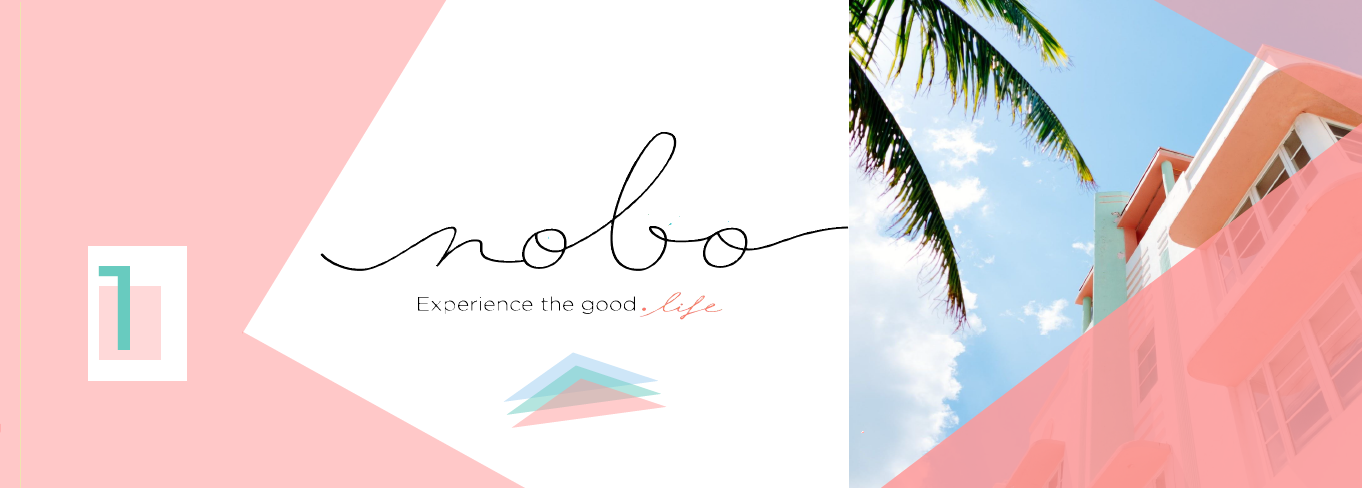
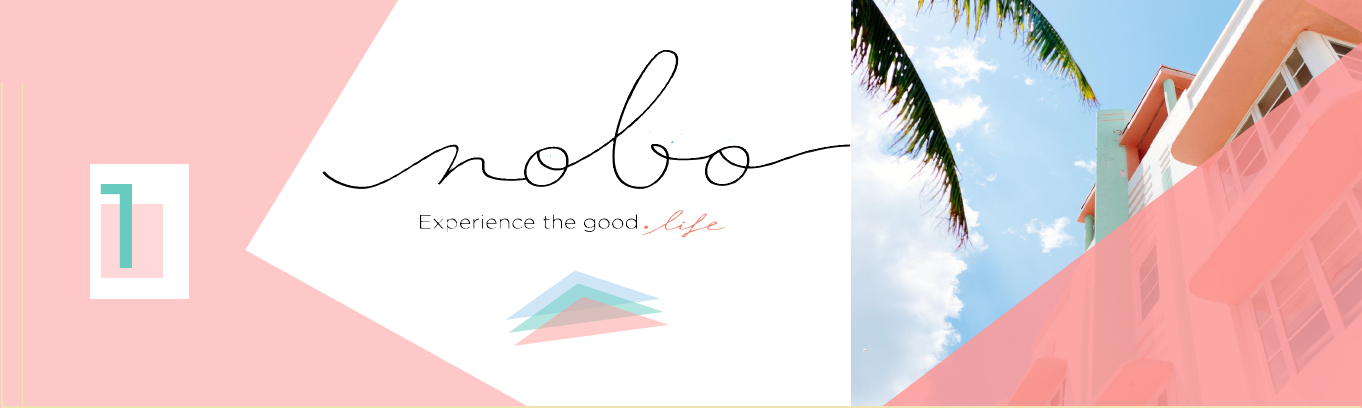
convert html to txt using react-html-parser because the summary in the movies are html

diff --git a/myapp/src/components/details.component.js b/myapp/src/components/details.component.js
@@ -1,107 +1,65 @@
 import React from 'react';
 import { makeStyles } from '@material-ui/core/styles';
 import clsx from 'clsx';
-import Card from '@material-ui/core/Card';
-import CardHeader from '@material-ui/core/CardHeader';
+import { pink } from '@material-ui/core/colors';
+import Container from '@material-ui/core/Container';
 import CardMedia from '@material-ui/core/CardMedia';
-import CardContent from '@material-ui/core/CardContent';
+import Card from '@material-ui/core/Card';
+import CardActionArea from '@material-ui/core/CardActionArea';
 import CardActions from '@material-ui/core/CardActions';
-import Collapse from '@material-ui/core/Collapse';
-import Avatar from '@material-ui/core/Avatar';
-import IconButton from '@material-ui/core/IconButton';
+import CardContent from '@material-ui/core/CardContent';
+import Button from '@material-ui/core/Button';
 import Typography from '@material-ui/core/Typography';
-import { red } from '@material-ui/core/colors';
-import FavoriteIcon from '@material-ui/icons/Favorite';
-import ShareIcon from '@material-ui/icons/Share';
-import ExpandMoreIcon from '@material-ui/icons/ExpandMore';
-import MoreVertIcon from '@material-ui/icons/MoreVert';
-import InfoIcon from '@material-ui/icons/Info';
+import Grid from '@material-ui/core/Grid';
+import Paper from '@material-ui/core/Paper';
+import ReactHtmlParser, { processNodes, convertNodeToElement, htmlparser2 } from 'react-html-parser';
 
 const useStyles = makeStyles(theme => ({
+
+  container:{
+    backgroundColor: pink[100]
+  },
   card: {
-    maxWidth: 345,
+    maxWidth: 600,
   },
   media: {
-    height: 0,
-    paddingTop: '56.25%', // 16:9
+    height: 600,
   },
-  expand: {
-    transform: 'rotate(0deg)',
-    marginLeft: 'auto',
-    transition: theme.transitions.create('transform', {
-      duration: theme.transitions.duration.shortest,
-    }),
-  },
-  expandOpen: {
-    transform: 'rotate(180deg)',
-  },
-  avatar: {
-    backgroundColor: red[500],
+  paper:{
+    padding: theme.spacing(2),
+   textAlign: 'center',
+   color: theme.palette.text.secondary,
   },
 }));
-
 export default function Details(props) {
   const classes = useStyles();
-  const [expanded, setExpanded] = React.useState(false);
-
-  const handleExpandClick = () => {
-    setExpanded(!expanded);
-  };
+  const html = props.summary;
 
   return (
-    <Card className={classes.card}>
-      <CardHeader
-
-        action={
-          <IconButton aria-label="settings">
-            <MoreVertIcon />
-          </IconButton>
-        }
-        title={props.name}
-        subheader={props.type}
-      />
-      <CardMedia
-        className={classes.media}
-        image={props.image}
-        title="Paella dish"
-      />
-      <CardContent>
-        <Typography variant="body2" color="textSecondary" component="p">
-        {props.score}
-        </Typography>
-      </CardContent>
-      <CardActions disableSpacing>
-        <IconButton aria-label="add to favorites">
-          <FavoriteIcon />
-        </IconButton>
-        <IconButton
-        onClick={props.showDetails}
-        aria-label="info">
-
-          <InfoIcon />
-        </IconButton>
-        <IconButton
-          className={clsx(classes.expand, {
-            [classes.expandOpen]: expanded,
-          })}
-          onClick={handleExpandClick}
-          aria-expanded={expanded}
-          aria-label="show more"
-        >
-          <ExpandMoreIcon />
-        </IconButton>
-      </CardActions>
-      <Collapse in={expanded} timeout="auto" unmountOnExit>
-        <CardContent>
-          <Typography paragraph>Summary:</Typography>
-
-          <Typography paragraph>
-          {props.summary}
-          </Typography>
+    <Container fixed className={classes.container}>
+    <Grid container spacing={3}>
+        <Grid item xs={6}>
+        <div className={classes.root}>
+        <Card className={classes.card}>
+              <CardMedia
+                className={classes.media}
+                image={props.image}
+                title="Contemplative Reptile"
+              />
+          </Card>
+        </div>
+        </Grid>
+        <Grid item xs={6}>
+          <Paper className={classes.paper}>{props.name}</Paper>
+          <Paper className={classes.paper}>average rating :{props.rating}</Paper>
+          <Paper className={classes.paper}>oficial site : {props.officialSite}</Paper>
+          <Paper className={classes.paper}>summary :{ ReactHtmlParser(html) }</Paper>
 
 
-        </CardContent>
-      </Collapse>
-    </Card>
+        </Grid>
+      </Grid>
+
+    </Container>
+
   );
 }

diff --git a/myapp/src/components/header.component.js b/myapp/src/components/header.component.js
@@ -7,7 +7,10 @@ import { makeStyles } from '@material-ui/core/styles';
 import MenuIcon from '@material-ui/icons/Menu';
 import SearchIcon from '@material-ui/icons/Search';
 import MoreIcon from '@material-ui/icons/MoreVert';
-import Image from '../nobo.png'
+import Image from '../nobo.png';
+import useScrollTrigger from '@material-ui/core/useScrollTrigger';
+import Slide from '@material-ui/core/Slide';
+import PropTypes from 'prop-types';
 
 const useStyles = makeStyles(theme => ({
   root: {
@@ -18,7 +21,7 @@ const useStyles = makeStyles(theme => ({
     marginRight: theme.spacing(2),
   },
   toolbar: {
-    minHeight: 450,
+    minHeight: 350,
     alignItems: 'flex-start',
     paddingTop: theme.spacing(1),
     paddingBottom: theme.spacing(2),
@@ -32,14 +35,33 @@ const useStyles = makeStyles(theme => ({
     }
 }));
 
-export default function Header() {
+
+
+function HideOnScroll(props) {
+  const { children, window } = props;
+  const trigger = useScrollTrigger({ target: window ? window() : undefined });
+  return (
+    <Slide appear={false} direction="down" in={!trigger}>
+      {children}
+    </Slide>
+  );
+}
+
+HideOnScroll.propTypes = {
+  children: PropTypes.element.isRequired,
+  window: PropTypes.func,
+};
+
+export default function Header(props) {
+
   const classes = useStyles();
 
   return (
+
     <div className={classes.root}>
       <AppBar position="static" className={classes.paperContainer}>
         <Toolbar className={classes.toolbar}>
-        
+
           <Typography className={classes.title} variant="h5" noWrap>
             Nobo Test by KHADIM Safaa
           </Typography>
@@ -52,5 +74,6 @@ export default function Header() {
         </Toolbar>
       </AppBar>
     </div>
+  
   );
 }

diff --git a/myapp/src/components/movies-list.component.js b/myapp/src/components/movies-list.component.js
@@ -13,7 +13,7 @@ const Movies = props => (
 )
 
 const Onemovie = props =>(
-  <Details name ={props.movie.show.name}></Details>
+  <Details name ={props.movie.show.name} image ={props.movie.show.image.original} languange={props.movie.show.language} rating={props.movie.show.rating.average} officialSite={props.movie.show.officialSite} summary={props.movie.show.summary}></Details>
 )
 
 export default class MoviesList extends Component {
@@ -50,7 +50,25 @@ export default class MoviesList extends Component {
   }
 
   detail(){
+    ////////////handle exceptions 
+    //null original image
     console.log(this.state.selectedmovie[0]);
+    if(this.state.selectedmovie[0].show.image == null){
+      this.state.selectedmovie[0].show.image={original :"https://cidco-smartcity.niua.org/wp-content/uploads/2017/08/No-image-found.jpg"}
+    }
+    //null average rating
+    if(this.state.selectedmovie[0].show.rating.average == null){
+      this.state.selectedmovie[0].show.rating.average="no information "
+    }
+    //null oficial site
+    if(this.state.selectedmovie[0].show.officialSite == null){
+      this.state.selectedmovie[0].show.officialSite="no information "
+    }
+    //null summary
+    if(this.state.selectedmovie[0].show.summary == null){
+      this.state.selectedmovie[0].show.summary="no information "
+    }
+
     return <Onemovie movie={this.state.selectedmovie[0]} />
   }
 

diff --git a/myapp/src/components/footer.component.js b/myapp/src/components/footer.component.js
@@ -60,12 +60,10 @@ export default function Footer() {
 
       <AppBar position="fixed" color="primary" className={classes.appBar}>
         <Toolbar>
-          <IconButton edge="start" color="inherit" aria-label="open drawer">
-            <MenuIcon />
-          </IconButton>
+          
 
           <div className={classes.grow} />
-        
+
         </Toolbar>
       </AppBar>
     </React.Fragment>
